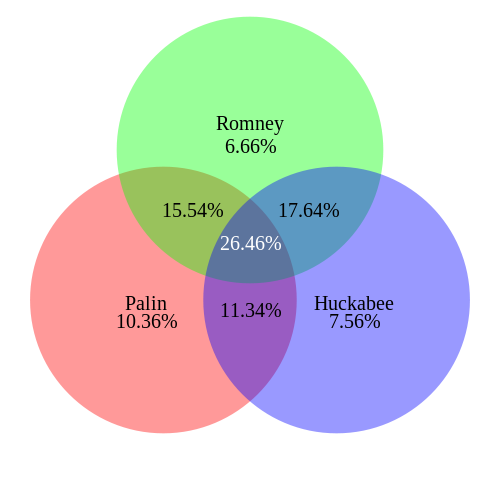
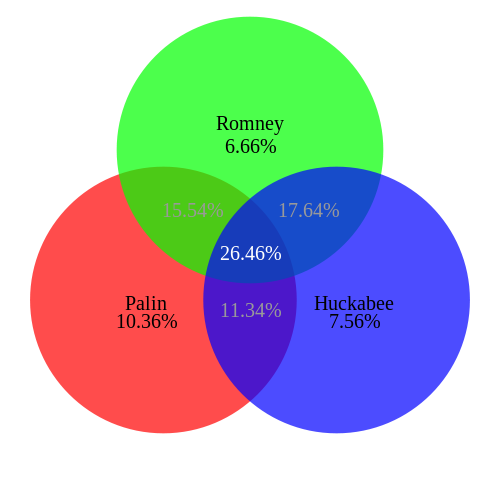
improve venn colors

diff --git a/venn.py b/venn.py
@@ -37,6 +37,7 @@ radius = isize / 3.75
 colors = { # available colors: 'color' : (r, g, b)
 	'black': (0.0, 0.0, 0.0),
 	'white': (1.0, 1.0, 1.0),
+	'gray':  (0.6, 0.6, 0.6),
 	'red':	 (1.0, 0.0, 0.0),
 	'green': (0.0, 1.0, 0.0),
 	'blue':	 (0.0, 0.0, 1.0),
@@ -80,7 +81,7 @@ w = 360.0 / len(circles) # degrees in layout circle to each circle...
 for name,pct,c in circles:
 	# bg color
 	c = colors[c]
-	cr.set_source_rgba(c[0], c[1], c[2], 0.4)
+	cr.set_source_rgba(c[0], c[1], c[2], 0.7)
 	# draw circle
 	x,y = cossin(xc, yc, start + w/2, radius * 0.75)
 	cr.arc(x, y, radius, 0, 2*pi)
@@ -98,13 +99,13 @@ if len(circles) > 2:
 	for i,j in [(i, (i+1) % len(circles)) for i in range(len(circles))]:
 		x,y = cossin(xc, yc, start + w/2, radius * 0.5)
 		pct = overlap['%s %s' % (circles[i][0], circles[j][0])]
-		center_text(cr, x, y, colors['black'], '%4.2f%%' % (pct))
+		center_text(cr, x, y, colors['gray'], '%4.2f%%' % (pct))
 		start += w
 
 # label center region
 allkey = ' '.join([name for name,_,_ in circles])
 pct = overlap[allkey]
-center_text(cr, xc, yc, colors['white'], '%4.2f%%' % (pct))
+center_text(cr, xc, yc + (fontsize / 2), colors['white'], '%4.2f%%' % (pct))
 
 # save
 surface.write_to_png(filename + '.png')
